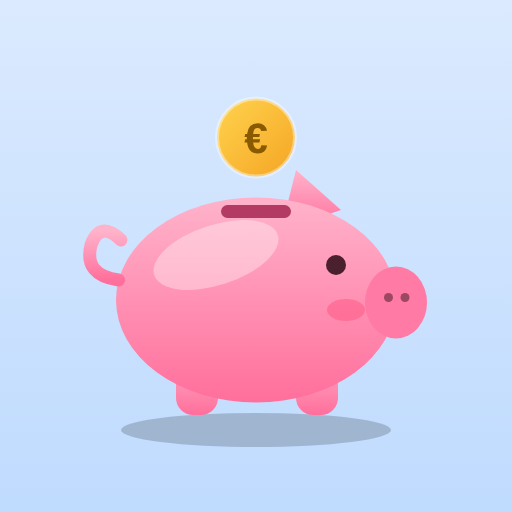
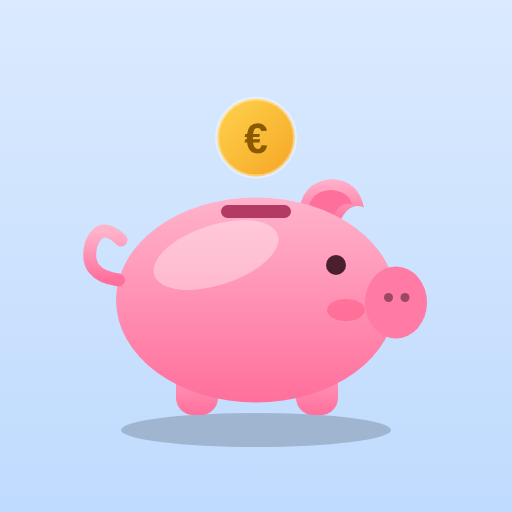
Oreille tombante plus petite (app et icône)
Claude-Session: https://claude.ai/code/session_01DKPJ3kGXh3PkRHwrEQnoB5

Changed region(s): [[0.5625, 0.3438, 0.7188, 0.4375]]

diff --git a/index.html b/index.html
@@ -3,7 +3,7 @@
 <meta name="viewport" content="width=device-width,initial-scale=1,viewport-fit=cover">
 <meta name="apple-mobile-web-app-capable" content="yes"><meta name="apple-mobile-web-app-status-bar-style" content="black-translucent">
 <meta name="apple-mobile-web-app-title" content="Clean Budget"><meta name="color-scheme" content="light dark"><meta name="theme-color" content="#000000" id="tc">
-<link rel="manifest" href="manifest.webmanifest"><link rel="apple-touch-icon" href="icon.png?v=4"><link rel="icon" href="icon.png?v=4"><title>Clean Budget</title>
+<link rel="manifest" href="manifest.webmanifest"><link rel="apple-touch-icon" href="icon.png?v=5"><link rel="icon" href="icon.png?v=5"><title>Clean Budget</title>
 <style>
 :root{--bg:#f2f2f7;--card:#fff;--ln:#e5e5ea;--tx:#000;--mu:#8a8a8e;--ac:#0a84ff;--ok:#34c759;--wa:#ff9f0a;--ko:#ff3b30;--r:16px;--bl:22px;--gt:55%;--ga:40%;--zm:1;--pd:12px;--c1:var(--ac);--c2:#bf5af2;--c3:#52b5a8;--font:-apple-system,system-ui,sans-serif;--gl:linear-gradient(135deg,#ffffff38,#ffffff0d 42%,#ffffff1f);--gb:color-mix(in srgb,var(--card) var(--gt),transparent);color-scheme:light}
 :root[data-theme=dark]{--tx:#fff;--mu:#98989f;color-scheme:dark}
@@ -246,7 +246,7 @@ const FONTS={sys:'-apple-system,system-ui,"SF Pro Text","Segoe UI",sans-serif',r
 const PAL={std:[["#f2f2f7","#ffffff","#e5e5ea"],["#000000","#1c1c1e","#2c2c2e"]],pur:[["#ffffff","#f2f2f6","#e4e4ea"],["#000000","#111114","#222228"]],anth:[["#f2f2f7","#ffffff","#e5e5ea"],["#1c1c1e","#2c2c2e","#3a3a3c"]]};
 const UN={rad:" px",dw:"",fs:" %",bl:" px",tr:" %",glw:" %"};
 const fresh=()=>({v:3,ob:0,glass:1,o:clone(OD),mode:"solo",n:{a:"Moi",b:"Partenaire"},eg:{m:0,t:0},rec:[],pj:[],tx:[],lo:[],wl:[],ev:[],cats:clone(DEF),theme:"auto",acc:"#0a84ff"});
-const VER="5.0.8";
+const VER="5.0.9";
 /* stockage : IndexedDB (grand, pour les photos) + copie légère sans photos dans localStorage */
 const IDB=(()=>{let p;return()=>p||(p=new Promise((res,rej)=>{try{const r=indexedDB.open("cleanbudget",1);r.onupgradeneeded=()=>r.result.createObjectStore("kv");r.onsuccess=()=>res(r.result);r.onerror=()=>rej(r.error)}catch(e){rej(e)}}))})();
 const idbGet=k=>IDB().then(db=>new Promise((res,rej)=>{const q=db.transaction("kv").objectStore("kv").get(k);q.onsuccess=()=>res(q.result);q.onerror=()=>rej(q.error)}));
@@ -368,7 +368,7 @@ function toast(m,u){const t=$("#toast");t.innerHTML=esc(m)+(u?' <b data-a="undo"
 let PIGL=null,PIGCOIN=0,PIGX=null,PIGARR=false,LASTTAB="";
 const waveD=(y,amp,ph,sl)=>{sl=sl||0;const Y=x=>(y+amp*Math.sin(x/55+ph)+sl*(x-480)).toFixed(1);let d=`M-200 ${Y(-200)}`;for(let x=-180;x<=1160;x+=20)d+=` L${x} ${Y(x)}`;return d+" L1160 1300 L-200 1300 Z"};
 const LQ={off:0,amp:0,tilt:0};
-function pigSVG(pct,id,coin,fromPct,delay){const P='<path d="M530 400 L560 280 L650 360 Z"/><rect x="320" y="640" width="84" height="130" rx="34"/><rect x="560" y="640" width="84" height="130" rx="34"/><ellipse cx="480" cy="540" rx="280" ry="205"/><ellipse cx="760" cy="545" rx="62" ry="72"/><path d="M205 500 q-70 -10 -55 -70 q18 -50 60 -10" fill="none" stroke-width="26" stroke-linecap="round"/>';
+function pigSVG(pct,id,coin,fromPct,delay){const P='<path d="M563 383 Q566 301 634 298 Q685 302 696 355 Q665 342 645 389 Z"/><path d="M583 362 Q590 321 631 320 Q665 323 672 349 Q648 342 638 369 Z" fill="#ff6f9c"/><rect x="320" y="640" width="84" height="130" rx="34"/><rect x="560" y="640" width="84" height="130" rx="34"/><ellipse cx="480" cy="540" rx="280" ry="205"/><ellipse cx="760" cy="545" rx="62" ry="72"/><path d="M205 500 q-70 -10 -55 -70 q18 -50 60 -10" fill="none" stroke-width="26" stroke-linecap="round"/>';
  const lv=pct==null?null:Math.max(0,Math.min(pct,1)),top=332,bot=748,yy=lv==null?0:bot-(bot-top)*lv,fy=fromPct==null?bot:bot-(bot-top)*Math.max(0,Math.min(fromPct,1));
  return `<svg viewBox="110 110 780 690" style="overflow:visible"><defs><linearGradient id="${id}b" x1="0" y1="0" x2="0" y2="1"><stop offset="0" stop-color="#ffb3cb"/><stop offset="1" stop-color="#ff6f9c"/></linearGradient><linearGradient id="${id}f" x1="0" y1="0" x2="0" y2="1"><stop offset="0" stop-color="#ffe27a"/><stop offset="1" stop-color="#f5a524"/></linearGradient><clipPath id="${id}c"><path class="pw" d="${waveD(lv==null?bot:fy,0,0)}" data-y="${lv==null?bot:fy}"${lv==null?"":` data-to="${yy}" data-dl="${delay||0}"`}/></clipPath><clipPath id="${id}k"><path class="pw2" d="${waveD(lv==null?bot:fy-8,0,0)}"/></clipPath><clipPath id="${id}p">${P}</clipPath><linearGradient id="${id}s" x1="0" y1="0" x2="1" y2="0"><stop offset="0" stop-color="#fff" stop-opacity="0"/><stop offset=".5" stop-color="#fff" stop-opacity=".55"/><stop offset="1" stop-color="#fff" stop-opacity="0"/></linearGradient></defs>
  <ellipse class="psh" cx="480" cy="788" rx="230" ry="20" fill="#000" opacity=".22"/><g class="dust">${[[-1,0],[1,0],[-1,1],[1,1]].map(([dx,k])=>`<circle cx="${dx<0?330:640}" cy="775" r="${k?16:22}" fill="#fff" opacity="0" style="--dx:${dx*(k?70:45)}px"/>`).join("")}</g><g class="pbody"><g fill="url(#${id}b)" stroke="#ff6f9c">${P}</g>${lv==null?"":`<g fill="#e8930f" stroke="#e8930f" clip-path="url(#${id}k)" opacity=".85">${P}</g><g fill="url(#${id}f)" stroke="#f5a524" clip-path="url(#${id}c)">${P}<g class="bub" stroke="none">${[[300,8,0],[420,11,.7],[520,7,1.4],[610,10,.35],[380,6,1.9],[690,8,1.1]].map(([x,r,d])=>`<circle cx="${x}" cy="760" r="${r}" fill="#fff" style="animation-delay:${d}s"/>`).join("")}</g></g>`}<g clip-path="url(#${id}p)"><rect class="shn" x="-60" y="280" width="150" height="560" fill="url(#${id}s)" transform="skewX(-18)"/></g>

diff --git a/sw.js b/sw.js
@@ -1,4 +1,4 @@
-const C="clean-budget-v51";
+const C="clean-budget-v52";
 self.addEventListener("install",e=>{e.waitUntil(caches.open(C).then(c=>c.addAll(["./","index.html","icon.png","manifest.webmanifest"])));self.skipWaiting()});
 self.addEventListener("activate",e=>e.waitUntil(caches.keys().then(k=>Promise.all(k.filter(x=>x!==C).map(x=>caches.delete(x)))).then(()=>clients.claim())));
 self.addEventListener("fetch",e=>{const q=e.request;if(q.method!=="GET")return;
